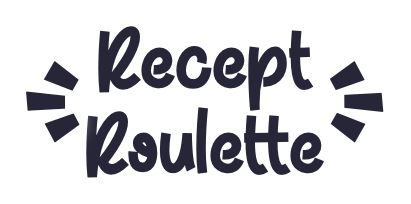
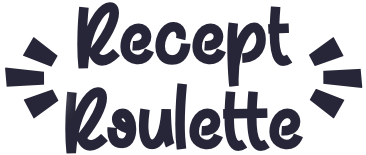
.

diff --git a/src/App.css b/src/App.css
@@ -53,13 +53,14 @@
 }
 
 .img {
-  margin-top: 120px;
+  padding-top: 250px;
   display: block;
-  width: 100%;
+  width: 375px;
   height: 100%;
 }
 
 .img2 {
+  width: 375px;
 }
 
 .startsidaTitle {
@@ -81,8 +82,6 @@
 }
 
 .startsidaBottom {
-  /* background-image: url("./bilder/background.png"); */
-  /*background-repeat: no-repeat;*/
   width: 375px;
   height: 60px;
   position: relative;
@@ -99,7 +98,7 @@
   border-style: none;
   margin: 0;
   position: absolute;
-  top: 400%;
+  top: 380%;
   left: 85px;
 }
 
